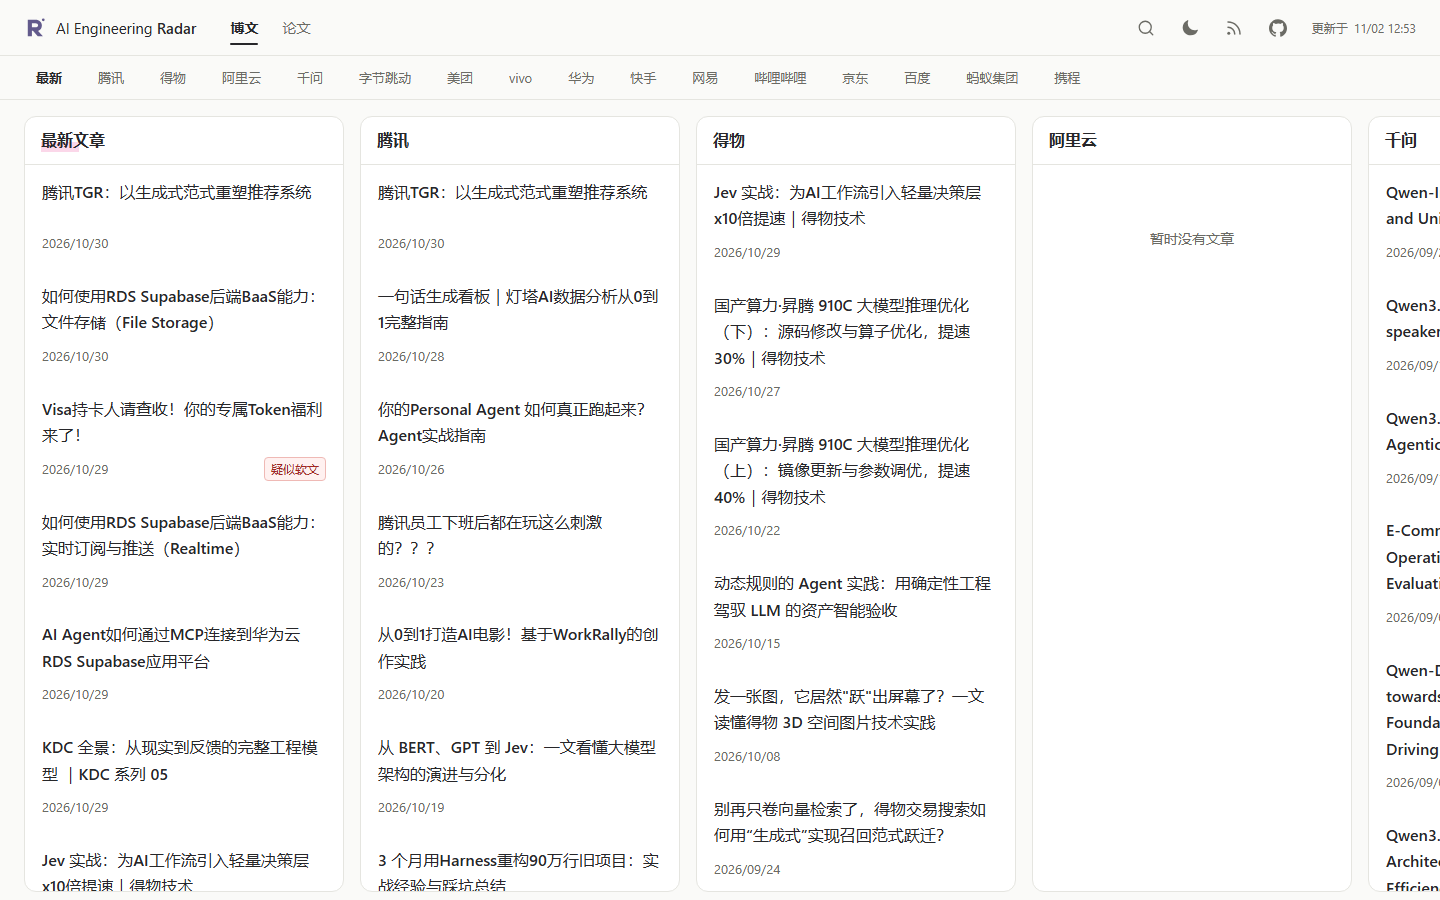
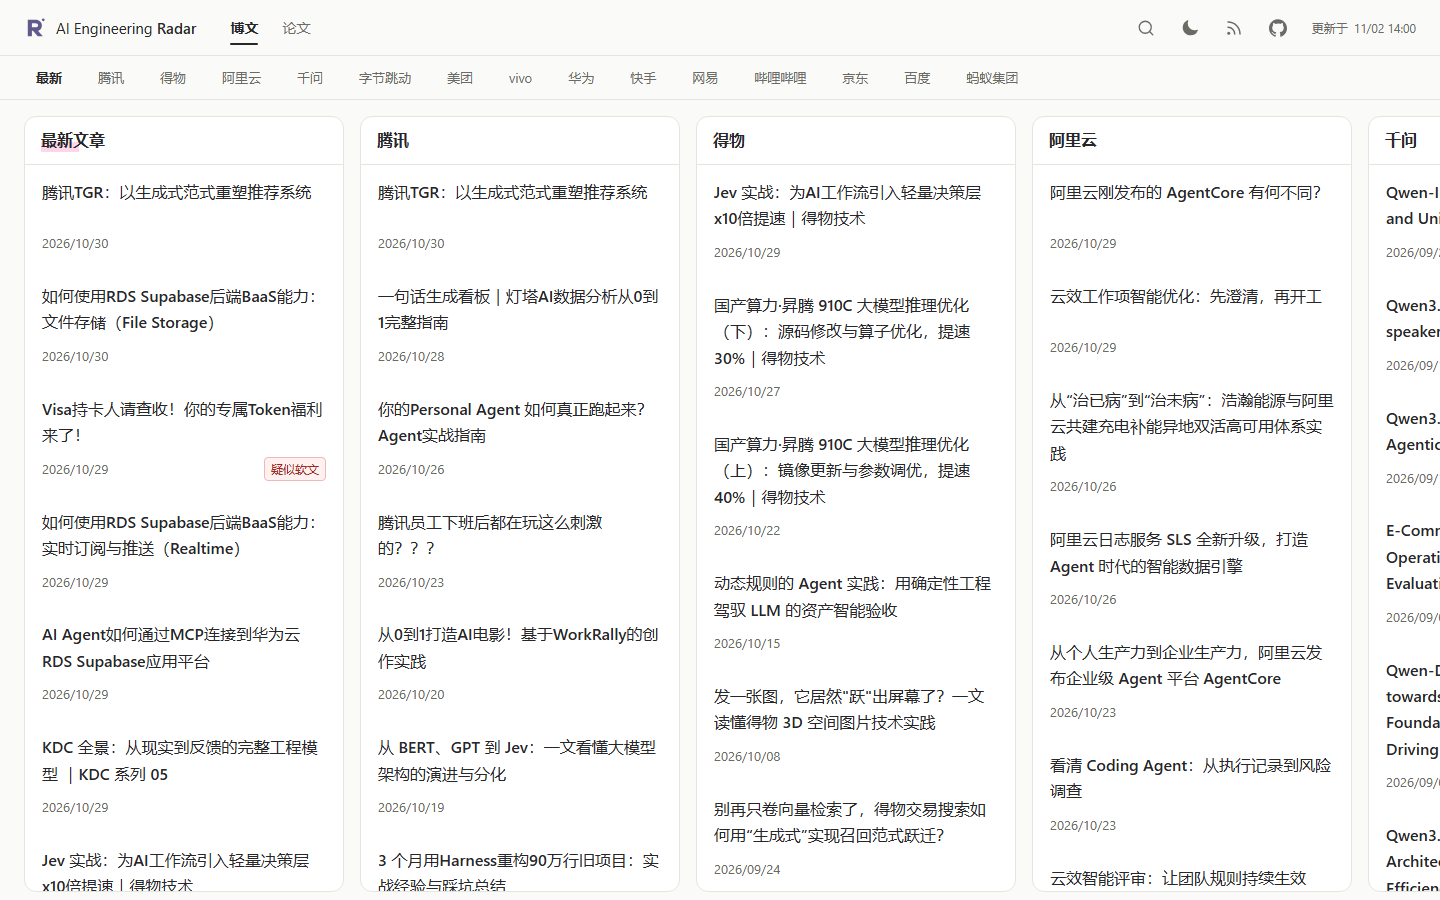
Sources: restore Aliyun collection and remove Ctrip
恢复阿里云博文采集，移除携程并保留有效联合论文。

【提交类型】
功能调整 - 来源与历史索引

【问题描述】
阿里云博文为空，维护者指定改用 apphub 官方目录。
维护者最终要求移除携程栏目及其全部来源。

【原因分析】
1. 直接原因：原阿里云账号主页受限，携程没有可用博文源。
2. 根本原因：来源变更需要同步注册表、历史和联合论文归属。

【修改方案】
接入 apphub 目录，仅接受已核验的阿里云云原生账号。
恢复 100 篇博文，文章稳定 ID 与原历史一致。
移除携程栏目、来源及 9 篇独占论文。
保留重新核验的阿里云联合论文，迁移主归属并保留 ID。

【影响评估】
影响阿里云博文与携程内容范围。
其余现有记录保持原始元数据与稳定 ID。

【兼容性分析】
沿用现有快照格式，迁移重复执行不再产生变更。
联合论文须有保留来源和作者机构证据才能转移归属。

【需要同时入库的提交】
来源配置与 data 分支快照需一并发布。

【自测结果】
1. 阿里云真实采集 100 篇，身份与原始日期验证通过。
2. 183 项单元测试与 46 项浏览器回归通过。
3. 构建、类型、公开产物及快照验证通过。
4. 未受影响的文章文件校验和保持一致。
5. 相关测试通过，自测通过

diff --git a/tests/unit/retire-sources.test.ts b/tests/unit/retire-sources.test.ts
@@ -48,6 +48,70 @@ function fixture() {
   return { articles: [...articles, old], states };
 }
 describe("explicit source retirement", () => {
+  it("preserves a joint paper ID under a verified remaining publisher when its primary company is withdrawn", () => {
+    const source = registry.sources.find(
+      (s) => s.id === "alibaba-papers-crossref",
+    )!;
+    const articles: Article[] = [];
+    const candidate = parseCrossref(
+      JSON.stringify({
+        status: "ok",
+        message: {
+          items: [
+            {
+              DOI: "10.1234/joint",
+              type: "proceedings-article",
+              title: ["Joint company paper"],
+              author: [{ affiliation: [{ name: "Alibaba Group" }] }],
+            },
+          ],
+        },
+      }),
+      source,
+      "alibaba",
+    )[0];
+    upsert(articles, candidate, source, registry);
+    const paper = articles[0];
+    paper.companyId = "ctrip";
+    paper.publisherId = "ctrip-research-papers";
+    paper.companyIds = ["ctrip", "alibaba"];
+    paper.paperAffiliations!.push({
+      companyId: "ctrip",
+      evidenceUrl: "https://api.crossref.org/works/10.1234%2Fjoint",
+      method: "paper-authors",
+      excerpt: "Ctrip",
+    });
+    paper.locations.unshift({
+      sourceId: "ctrip-papers-crossref",
+      url: paper.canonicalUrl,
+    });
+    const before = structuredClone(paper);
+    const result = retireReplacedSources(articles, [], registry);
+    expect(result.articles[0]).toMatchObject({
+      id: paper.id,
+      companyId: "alibaba",
+      publisherId: source.publisherId,
+      companyIds: ["alibaba"],
+      locations: [{ sourceId: source.id }],
+    });
+    expect(
+      result.articles[0].paperAffiliations!.map((p) => p.companyId),
+    ).toEqual(["alibaba"]);
+    expect(result.removedArticles).toBe(0);
+    expect(result.updatedArticles).toBe(1);
+    expect(paper).toEqual(before);
+    validateRelations(result.articles, [], registry);
+    expect(
+      retireReplacedSources(result.articles, [], registry).updatedArticles,
+    ).toBe(0);
+    const unproven = structuredClone(paper);
+    unproven.paperAffiliations = unproven.paperAffiliations!.filter(
+      (p) => p.companyId === "ctrip",
+    );
+    expect(() => retireReplacedSources([unproven], [], registry)).toThrow(
+      "no verified retained publisher",
+    );
+  });
   it("withdraws disabled and blocked sources without withdrawing their companies or working papers", () => {
     const source = registry.sources.find(
       (s) => s.id === "alibaba-papers-crossref",
@@ -118,6 +182,16 @@ describe("explicit source retirement", () => {
     ).toBe(0);
   });
   it.each([
+    {
+      companyId: "ctrip",
+      sourceId: "ctrip-papers-crossref",
+      publisherId: "ctrip-research-papers",
+    },
+    {
+      companyId: "ctrip",
+      sourceId: "tripscore-paper-papers",
+      publisherId: "ctrip-research-papers",
+    },
     {
       companyId: "xiaomi",
       sourceId: "xiaomi-tech-site",

diff --git a/packages/database/retire-sources.ts b/packages/database/retire-sources.ts
@@ -54,9 +54,57 @@ export function retireReplacedSources(
         );
     }
   }
+  const withdrawnCompanies = new Set<string>(
+    sourceWithdrawals
+      .filter((rule) => !("sourceOnly" in rule && rule.sourceOnly))
+      .map((rule) => rule.companyId),
+  );
+  let updatedArticles = 0;
   const retained = articles.flatMap((a) => {
     const locations = a.locations.filter((l) => !retired.has(l.sourceId));
-    return locations.length ? [{ ...a, locations }] : [];
+    if (!locations.length) return [];
+    const article = { ...a, locations };
+    if (a.contentType === "paper") {
+      article.companyIds = a.companyIds?.filter(
+        (id) => !withdrawnCompanies.has(id),
+      );
+      article.paperAffiliations = a.paperAffiliations?.filter(
+        (proof) => !withdrawnCompanies.has(proof.companyId),
+      );
+      if (withdrawnCompanies.has(a.companyId)) {
+        const publisher = locations.flatMap((location) => {
+          const source = registry.sources.find(
+            (s) => s.id === location.sourceId,
+          );
+          const owner = registry.publishers.find(
+            (p) => p.id === source?.publisherId,
+          );
+          return source?.contentType === "paper" &&
+            source.crawl.enabled &&
+            source.verification.status === "verified" &&
+            owner &&
+            article.companyIds?.includes(owner.companyId) &&
+            article.paperAffiliations?.some(
+              (proof) => proof.companyId === owner.companyId,
+            )
+            ? [owner]
+            : [];
+        })[0];
+        if (!publisher)
+          throw new Error(
+            `Withdrawn paper has no verified retained publisher: ${a.id}`,
+          );
+        article.publisherId = publisher.id;
+        article.companyId = publisher.companyId;
+      }
+      if (
+        article.companyId !== a.companyId ||
+        article.companyIds?.length !== a.companyIds?.length ||
+        article.paperAffiliations?.length !== a.paperAffiliations?.length
+      )
+        updatedArticles++;
+    }
+    return [article];
   });
   const ids = new Set(retained.map((a) => a.id));
   const removedIds = new Set(
@@ -77,5 +125,6 @@ export function retireReplacedSources(
     removedLocations,
     removedArticles: articles.length - retained.length,
     removedStates: states.length - retainedStates.length,
+    updatedArticles,
   };
 }

diff --git a/packages/source-registry/replacements.ts b/packages/source-registry/replacements.ts
@@ -144,6 +144,8 @@ export const sourceReplacements = [
 
 // Explicit removals requested by the maintainer; these have no replacement.
 export const sourceWithdrawals = [
+  { sourceId: "ctrip-papers-crossref", companyId: "ctrip" },
+  { sourceId: "tripscore-paper-papers", companyId: "ctrip" },
   { sourceId: "xiaomi-tech-site", companyId: "xiaomi" },
   { sourceId: "xiaomi-papers-crossref", companyId: "xiaomi" },
   { sourceId: "mimo-hf-papers", companyId: "xiaomi" },
@@ -152,7 +154,7 @@ export const sourceWithdrawals = [
   { sourceId: "xiaomi-juejin", companyId: "xiaomi" },
   { sourceId: "xiaomi-csdn-candidate", companyId: "xiaomi" },
   { sourceId: "xiaohongshu-papers-crossref", companyId: "xiaohongshu" },
-  { sourceId: "ctrip-csdn", companyId: "ctrip", sourceOnly: true },
+  { sourceId: "ctrip-csdn", companyId: "ctrip" },
   { sourceId: "xiaohongshu-csdn", companyId: "xiaohongshu" },
   { sourceId: "aliyun-cloud-native", companyId: "alibaba", sourceOnly: true },
   { sourceId: "qwen-hf-papers", companyId: "alibaba", sourceOnly: true },
@@ -161,9 +163,9 @@ export const sourceWithdrawals = [
   { sourceId: "index-readme-papers", companyId: "bilibili", sourceOnly: true },
   { sourceId: "alibaba-csdn", companyId: "alibaba", sourceOnly: true },
   { sourceId: "alibaba", companyId: "alibaba", sourceOnly: true },
-  { sourceId: "ctrip", companyId: "ctrip", sourceOnly: true },
+  { sourceId: "ctrip", companyId: "ctrip" },
   { sourceId: "xiaohongshu", companyId: "xiaohongshu" },
-  { sourceId: "ctrip-cnblogs", companyId: "ctrip", sourceOnly: true },
+  { sourceId: "ctrip-cnblogs", companyId: "ctrip" },
   { sourceId: "aliyun-dataphin", companyId: "alibaba", sourceOnly: true },
   { sourceId: "oppo", companyId: "oppo" },
   { sourceId: "oppo-segmentfault", companyId: "oppo" },

diff --git a/tests/e2e/site.spec.ts b/tests/e2e/site.spec.ts
@@ -276,6 +276,7 @@ test("domestic provenance stays public while the interface exposes only whole-pr
   const companies = (await (await request.get("data/companies.json")).json())
     .companies;
   expect(companies.length).toBeGreaterThan(0);
+  expect(companies.some((c: { id: string }) => c.id === "ctrip")).toBe(false);
   expect(companies.some((c: { id: string }) => c.id === "xiaomi")).toBe(false);
   expect(companies.some((c: { id: string }) => c.id === "oppo")).toBe(false);
   expect(companies.some((c: { id: string }) => c.id === "xiaohongshu")).toBe(
@@ -317,7 +318,7 @@ test("domestic provenance stays public while the interface exposes only whole-pr
   }
   expect(
     sources.filter((s: { contentType?: string }) => s.contentType !== "paper"),
-  ).toHaveLength(13);
+  ).toHaveLength(14);
   expect(
     sources.find((s: { id: string }) => s.id === "bytedance-tech-volcengine")
       .entryUrl,
@@ -496,6 +497,9 @@ test("Qwen has an independent company panel and the requested source URLs stay e
   expect(
     sources.some((s: { id: string }) => s.id === "aliyun-cloud-native"),
   ).toBe(false);
+  expect(
+    sources.find((s: { id: string }) => s.id === "aliyun-apphub").entryUrl,
+  ).toBe("https://developer.aliyun.com/group/apphub/article/");
   expect(
     sources.find((s: { id: string }) => s.id === "qwen-research").entryUrl,
   ).toBe("https://qwen.ai/research");

diff --git a/tests/unit/paper-sources.test.ts b/tests/unit/paper-sources.test.ts
@@ -105,6 +105,7 @@ describe("publication affiliation verification", () => {
           { affiliation: [{ name: "Tsinghua University" }] },
           { affiliation: [{ name: "Xiaohongshu / Rednote 小红书" }] },
           { affiliation: [{ name: "Xiaomi / 小米" }] },
+          { affiliation: [{ name: "Ctrip / Trip.com Group 携程" }] },
         ],
       }),
       source,
@@ -143,12 +144,12 @@ describe("publication affiliation verification", () => {
   });
   it("reads affiliations from the paper author block, excluding cited companies in body text", () => {
     const html =
-      '<div class="ltx_authors"><span class="ltx_role_affiliation">Trip.com Group, Chongqing University</span></div><p>We evaluate Tencent and Alibaba models.</p>';
+      '<div class="ltx_authors"><span class="ltx_role_affiliation">Tencent, Chongqing University</span></div><p>We evaluate Tencent and Alibaba models.</p>';
     expect(
       parsePaperAuthors(html, "https://arxiv.org/html/2510.09011v3").map(
         (p) => p.companyId,
       ),
-    ).toEqual(["ctrip"]);
+    ).toEqual(["tencent"]);
     const publisher =
       '<meta name="citation_author_institution" content="Alibaba Group"><meta name="citation_author_institution" content="NetEase Inc."><p>Tencent</p>';
     expect(

diff --git a/tests/unit/aliyun-sources.test.ts b/tests/unit/aliyun-sources.test.ts
@@ -24,6 +24,27 @@ const fixture = (name: string) =>
   readFile(`tests/fixtures/aliyun-${name}.html`, "utf8");
 
 describe("Aliyun official group listings", () => {
+  it("registers the requested directory as Alibaba's only blog source and keeps the restricted profile retired", () => {
+    const publisherIds = new Set(
+      registry.publishers
+        .filter((p) => p.companyId === "alibaba")
+        .map((p) => p.id),
+    );
+    const sources = registry.sources.filter(
+      (s) => publisherIds.has(s.publisherId) && s.contentType !== "paper",
+    );
+    expect(sources).toHaveLength(1);
+    expect(sources[0]).toMatchObject({
+      id: "aliyun-apphub",
+      entryUrl: "https://developer.aliyun.com/group/apphub/article/",
+      url: "https://developer.aliyun.com/group/apphub/article/",
+      platform: "aliyun-group",
+      authorAllowlist: ["pawmkwdq37c7s"],
+    });
+    expect(registry.sources.some((s) => s.id === "aliyun-cloud-native")).toBe(
+      false,
+    );
+  });
   it("binds each article to its stable profile instead of an impersonated display name", async () => {
     const items = parseAliyunGroup(await fixture("apphub"), source());
     expect(items).toHaveLength(2);

diff --git a/tests/unit/source-registry.test.ts b/tests/unit/source-registry.test.ts
@@ -19,7 +19,7 @@ describe("official community account scope", () => {
           s.adapter !== "reference",
       ),
     ).toBe(true);
-    for (const companyId of ["alibaba", "ctrip"]) {
+    for (const companyId of ["alibaba"]) {
       const publishers = new Set(
         registry.publishers
           .filter((p) => p.companyId === companyId)
@@ -29,7 +29,14 @@ describe("official community account scope", () => {
         publishers.has(s.publisherId),
       );
       expect(sources.length).toBeGreaterThan(0);
-      expect(sources.every((s) => s.contentType === "paper")).toBe(true);
+      expect(
+        sources.filter((s) => s.contentType !== "paper").map((s) => s.id),
+      ).toEqual(["aliyun-apphub"]);
+      const paperOnly = {
+        ...registry,
+        sources: registry.sources.filter((s) => s.id !== "aliyun-apphub"),
+      };
+      expect(() => validateCompanySources(paperOnly)).not.toThrow();
     }
     const source = registry.sources.find((s) => s.id === "meituan")!;
     const duplicate = structuredClone(registry);

diff --git a/packages/crawler/platforms/papers.ts b/packages/crawler/platforms/papers.ts
@@ -30,7 +30,6 @@ const institutions: Record<string, RegExp> = {
   jd: /\bJD\.com\b|\bJD (?:AI|Explore|Research|Cloud|Technology|Logistics|Financial)\b|\bJingdong (?:Technology|Logistics|Group|Inc|Company|Ltd)\b|京东/i,
   baidu: /\bBaidu\b|百度/i,
   ant: /\bAnt (?:Group|Research|Financial)\b|\bAntGroup\b|蚂蚁(?:集团|金服)/i,
-  ctrip: /\bTrip\.com\b|\bCtrip\b|携程/i,
 };
 export function affiliationEvidence(
   values: string[],

diff --git a/tests/unit/core.test.ts b/tests/unit/core.test.ts
@@ -43,7 +43,7 @@ describe("registry and identity", () => {
   it("keeps a single working blog source where available, alongside paper-only companies", () =>
     expect(
       registry.sources.filter((s) => s.contentType !== "paper").length,
-    ).toBe(13));
+    ).toBe(14));
   it("rejects verified records without evidence", () =>
     expect(() =>
       sourceSchema.parse({

diff --git a/scripts/migrate-domestic.ts b/scripts/migrate-domestic.ts
@@ -30,6 +30,7 @@ await withSnapshotLock(dir, async () => {
   let changed =
     articles.length !== snapshot.articles.length ||
     retirement.removedLocations > 0 ||
+    retirement.updatedArticles > 0 ||
     retirement.removedStates > 0;
   for (const article of articles) {
     const publisher = registry.publishers.find(

diff --git a/apps/web/src/board.ts b/apps/web/src/board.ts
@@ -37,7 +37,6 @@ const order = [
   "jd",
   "baidu",
   "ant",
-  "ctrip",
 ];
 export function boardCompanies(companies: Company[]) {
   return [...companies].sort((a, b) => {

diff --git a/docs/source-acceptance.md b/docs/source-acceptance.md
@@ -1,6 +1,6 @@
 # 来源验收表
 
-快照时间：2026-11-02T04:53:03.884Z
+快照时间：2026-11-02T06:00:14.061Z
 
 | 入口 | 身份 | 启用 | 实测状态 | 条目数 | 最新文章 | 最近成功 | 说明 |
 | --- | --- | --- | --- | --- | --- | --- | --- |
@@ -16,6 +16,7 @@
 | [字节跳动技术团队 · 火山引擎](https://developer.volcengine.com/user/2772312065061673) | verified | 是 | success | 20 | 2026-06-24T17:28:03.000Z | 2026-11-02T03:56:07.442Z | 用户指定字节跳动技术团队账号，稳定用户 ID 2772312065061673。公开账号 SSR 与逐篇 content.user_id、user.user_id 均匹配，仅采集该账号发布的文章元数据。普通公开请求实采 20 篇，最新北京时间 2026-06-25；按用户指定继续追踪，不代表近月活跃。原字节跳动开源账号已移除。 |
 | [蚂蚁数据 AntData · CSDN](https://devpress.csdn.net/user/DB_GPT) | verified | 是 | success | 20 | 2026-06-12T07:03:51.000Z | 2026-11-02T04:10:25.973Z | 维护者指定的蚂蚁数据团队账号。DevPress 显示蚂蚁数据 AntData、稳定用户名 DB_GPT，CSDN 同名账号为蚂蚁数据智能技术，持续发布蚂蚁数据团队实践、DB-GPT、VSAG 与 ASystem 工程文章。依据账号连续性、团队自述和维护者指定核验，不表述为平台企业认证。去掉 utm_source 参数，通过同账号公开 RSS 采集，仅接受作者 DB_GPT 与同账号文章路径。 |
 | [百度智能云技术站 · CSDN](https://blog.csdn.net/2301_82040283) | verified | 是 | success | 20 | 2026-10-29T14:25:14.000Z | 2026-11-02T02:28:23.590Z | 经维护者按现有交叉证据人工确认，为百度智能云技术团队发布渠道。账号持续发表团队原创工程文章，与同品牌掘金及百度自有社区长期近同步；RLinf、KVCache 等多篇 CSDN 原始发文先于百度社区数分钟。依据上述团队内容、账号连续性和自有社区对应关系核验，不以企业认证徽标为前提。限定稳定用户名2301_82040283及同账号文章路径，公开RSS实测可采集。 |
+| [阿里云云原生 · 云原生应用开发与管理](https://developer.aliyun.com/group/apphub/article/) | verified | 是 | success | 100 | 2026-10-28T16:00:00.000Z | 2026-11-02T05:54:51.105Z | 维护者指定的阿里云官方博客目录。仅收录文章行中稳定作者 profile ID 为 pawmkwdq37c7s 的阿里云云原生文章，使用目录原始发表日期；排除其他作者和页面推荐链接，不请求受限账号主页，不保存正文。 |
 | [千问 · Research](https://qwen.ai/research) | verified | 是 | success | 92 | 2026-09-20T12:00:00.000Z | 2026-11-02T03:41:27.647Z | 用户指定的 Qwen 官方研究目录，官网署名 Qwen 并标明 Powered by Alibaba Cloud。按用户要求作为千问独立栏目。读取研究页面使用的同域公开 JSON 接口；限定 QwenTeam、研究目录历史 ID 与新发布类型 qwen_ai。只保存标题、原始日期、作者与原文链接，不保存正文或接口内部字段。 |
 | [美团 · 出版方论文元数据](https://search.crossref.org/?q=Meituan) | verified | 是 | success | 30 | 2026-09-28T00:00:00.000Z | 2026-11-02T03:23:51.374Z | 正式出版方提交至 Crossref 的论文元数据渠道，非企业账号。仅接受作者机构字段明确匹配本公司的论文，拒绝标题或摘要提及、无机构信息及模糊同名结果；保留逐篇 DOI 记录和作者机构摘录。 |
 | [vivo · 出版方论文元数据](https://search.crossref.org/?q=vivo%20Mobile%20Communication) | verified | 是 | success | 30 | 2026-07-19T00:00:00.000Z | 2026-11-02T03:23:51.379Z | 正式出版方提交至 Crossref 的论文元数据渠道，非企业账号。仅接受作者机构字段明确匹配本公司的论文，拒绝标题或摘要提及、无机构信息及模糊同名结果；保留逐篇 DOI 记录和作者机构摘录。 |
@@ -28,7 +29,6 @@
 | [快手 · 出版方论文元数据](https://search.crossref.org/?q=Kuaishou) | verified | 是 | success | 30 | 2026-10-11T00:00:00.000Z | 2026-11-02T03:24:07.694Z | 正式出版方提交至 Crossref 的论文元数据渠道，非企业账号。仅接受作者机构字段明确匹配本公司的论文，拒绝标题或摘要提及、无机构信息及模糊同名结果；保留逐篇 DOI 记录和作者机构摘录。 |
 | [蚂蚁集团 · 出版方论文元数据](https://search.crossref.org/?q=Ant%20Group) | verified | 是 | success | 30 | 2026-08-01T00:00:00.000Z | 2026-11-02T03:24:12.199Z | 正式出版方提交至 Crossref 的论文元数据渠道，非企业账号。仅接受作者机构字段明确匹配本公司的论文，拒绝标题或摘要提及、无机构信息及模糊同名结果；保留逐篇 DOI 记录和作者机构摘录。 |
 | [京东 · 出版方论文元数据](https://search.crossref.org/?q=JD.com) | verified | 是 | success | 30 | 2026-05-03T00:00:00.000Z | 2026-11-02T03:24:26.716Z | 正式出版方提交至 Crossref 的论文元数据渠道，非企业账号。仅接受作者机构字段明确匹配本公司的论文，拒绝标题或摘要提及、无机构信息及模糊同名结果；保留逐篇 DOI 记录和作者机构摘录。 |
-| [携程 · 出版方论文元数据](https://search.crossref.org/?q=Ctrip) | verified | 是 | success | 9 | 2026-04-10T00:00:00.000Z | 2026-11-02T03:24:30.791Z | 正式出版方提交至 Crossref 的论文元数据渠道，非企业账号。仅接受作者机构字段明确匹配本公司的论文，拒绝标题或摘要提及、无机构信息及模糊同名结果；保留逐篇 DOI 记录和作者机构摘录。 |
 | [网易 · 出版方论文元数据](https://search.crossref.org/?q=NetEase) | verified | 是 | success | 30 | 2026-10-09T00:00:00.000Z | 2026-11-02T03:24:38.133Z | 正式出版方提交至 Crossref 的论文元数据渠道，非企业账号。仅接受作者机构字段明确匹配本公司的论文，拒绝标题或摘要提及、无机构信息及模糊同名结果；保留逐篇 DOI 记录和作者机构摘录。 |
 | [B站 · 出版方论文元数据](https://search.crossref.org/?q=Bilibili) | verified | 是 | success | 30 | 2026-05-03T00:00:00.000Z | 2026-11-02T03:24:42.178Z | 正式出版方提交至 Crossref 的论文元数据渠道，非企业账号。仅接受作者机构字段明确匹配本公司的论文，拒绝标题或摘要提及、无机构信息及模糊同名结果；保留逐篇 DOI 记录和作者机构摘录。 |
 | [字节跳动 · ByteDance-Seed 论文](https://huggingface.co/ByteDance-Seed/papers) | verified | 是 | success | 1 | 2026-10-07T20:00:00.000Z | 2026-11-02T03:29:38.979Z | 部分论文候选缺少可核验机构信息，已跳过。 |
@@ -38,5 +38,4 @@
 | [蚂蚁集团 · antgroup 论文](https://huggingface.co/antgroup/papers) | verified | 是 | success | 4 | 2026-09-27T20:00:00.000Z | 2026-11-02T03:35:46.158Z | 1 条候选未通过严格作者机构复核，已隐藏；仅发布证据完整条目。 |
 | [字节跳动 · ByteDance Seed 论文](https://seed.bytedance.com/en/public_papers) | verified | 是 | success | 17 | 2026-10-24T16:00:00.000Z | 2026-11-02T03:47:25.960Z | 官方研究目录逐篇列出的研究成果；保留目录归属依据。 2026-11-02核验，官方机构目录或论文出版记录与公司身份交叉验证。 |
 | [华为 · Huawei Noah 论文](https://www.noahlab.com.hk/en/research_paper) | verified | 是 | success | 10 | — | 2026-11-02T03:36:44.597Z | 官方研究目录逐篇列出的研究成果；保留目录归属依据。 2026-11-02核验，官方机构目录或论文出版记录与公司身份交叉验证。 |
-| [携程 · Trip.com Group 论文](https://arxiv.org/html/2510.09011v3) | verified | 是 | success | 1 | — | 2026-11-02T03:39:36.955Z | 只收录作者机构署名可验证的论文；不以组织昵称、提交人、正文提及或引用关系推断公司归属。 2026-11-02核验，官方机构目录或论文出版记录与公司身份交叉验证。 |
 | [网易 · NetEase 论文](https://ojs.aaai.org/index.php/AAAI/article/view/26509) | verified | 是 | success | 1 | 2023-06-25T16:00:00.000Z | 2026-11-02T03:40:59.528Z | 只收录作者机构署名可验证的论文；不以组织昵称、提交人、正文提及或引用关系推断公司归属。 2026-11-02核验，官方机构目录或论文出版记录与公司身份交叉验证。 |
